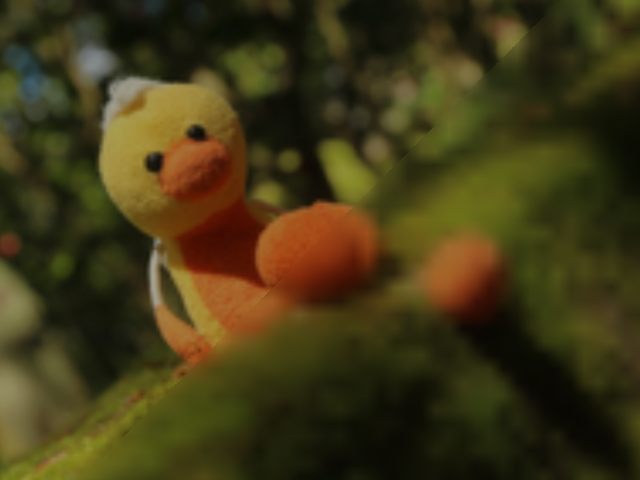
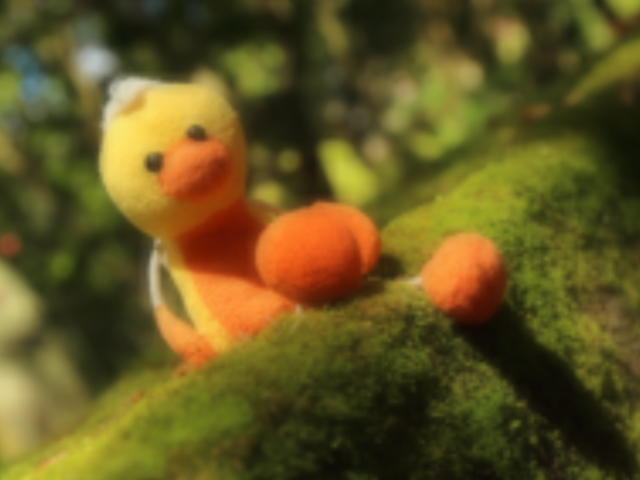
Fixed gl-330-sampler-object test

diff --git a/tests/gl-330-sampler-object.cpp b/tests/gl-330-sampler-object.cpp
@@ -152,7 +152,7 @@ private:
 		glSamplerParameterfv(SamplerAName, GL_TEXTURE_BORDER_COLOR, &glm::vec4(0.0f)[0]);
 		glSamplerParameterf(SamplerAName, GL_TEXTURE_MIN_LOD, -1000.f);
 		glSamplerParameterf(SamplerAName, GL_TEXTURE_MAX_LOD, 1000.f);
-		glSamplerParameterf(SamplerAName, GL_TEXTURE_LOD_BIAS, 2.0f);
+		glSamplerParameterf(SamplerAName, GL_TEXTURE_LOD_BIAS, 0.0f);
 		glSamplerParameteri(SamplerAName, GL_TEXTURE_COMPARE_MODE, GL_NONE);
 		glSamplerParameteri(SamplerAName, GL_TEXTURE_COMPARE_FUNC, GL_LEQUAL);
 

diff --git a/tests/gl-400-fbo-multisample.cpp b/tests/gl-400-fbo-multisample.cpp
@@ -312,7 +312,7 @@ private:
 		// Pass 1, render the scene in a multisampled framebuffer
 		glEnable(GL_MULTISAMPLE);
 		glEnable(GL_SAMPLE_SHADING);
-		glMinSampleShading(2.0f);
+		glMinSampleShading(1.0f);
 
 		//glEnable(GL_SAMPLE_MASK);
 		//glSampleMaski(0, 0xFF);
